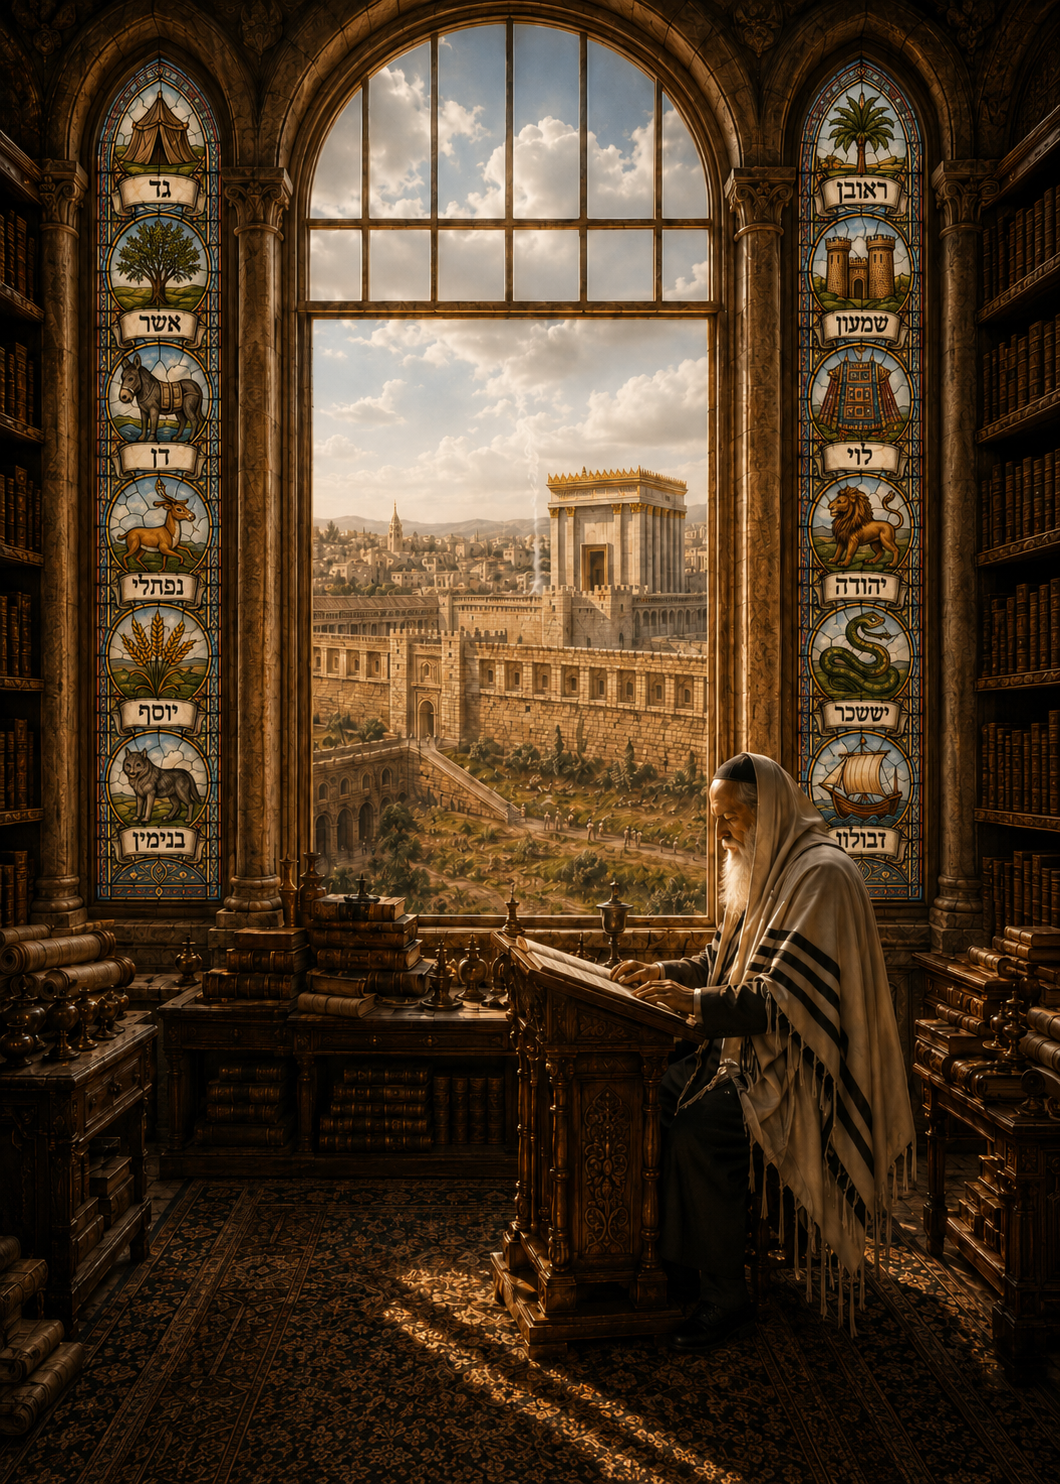
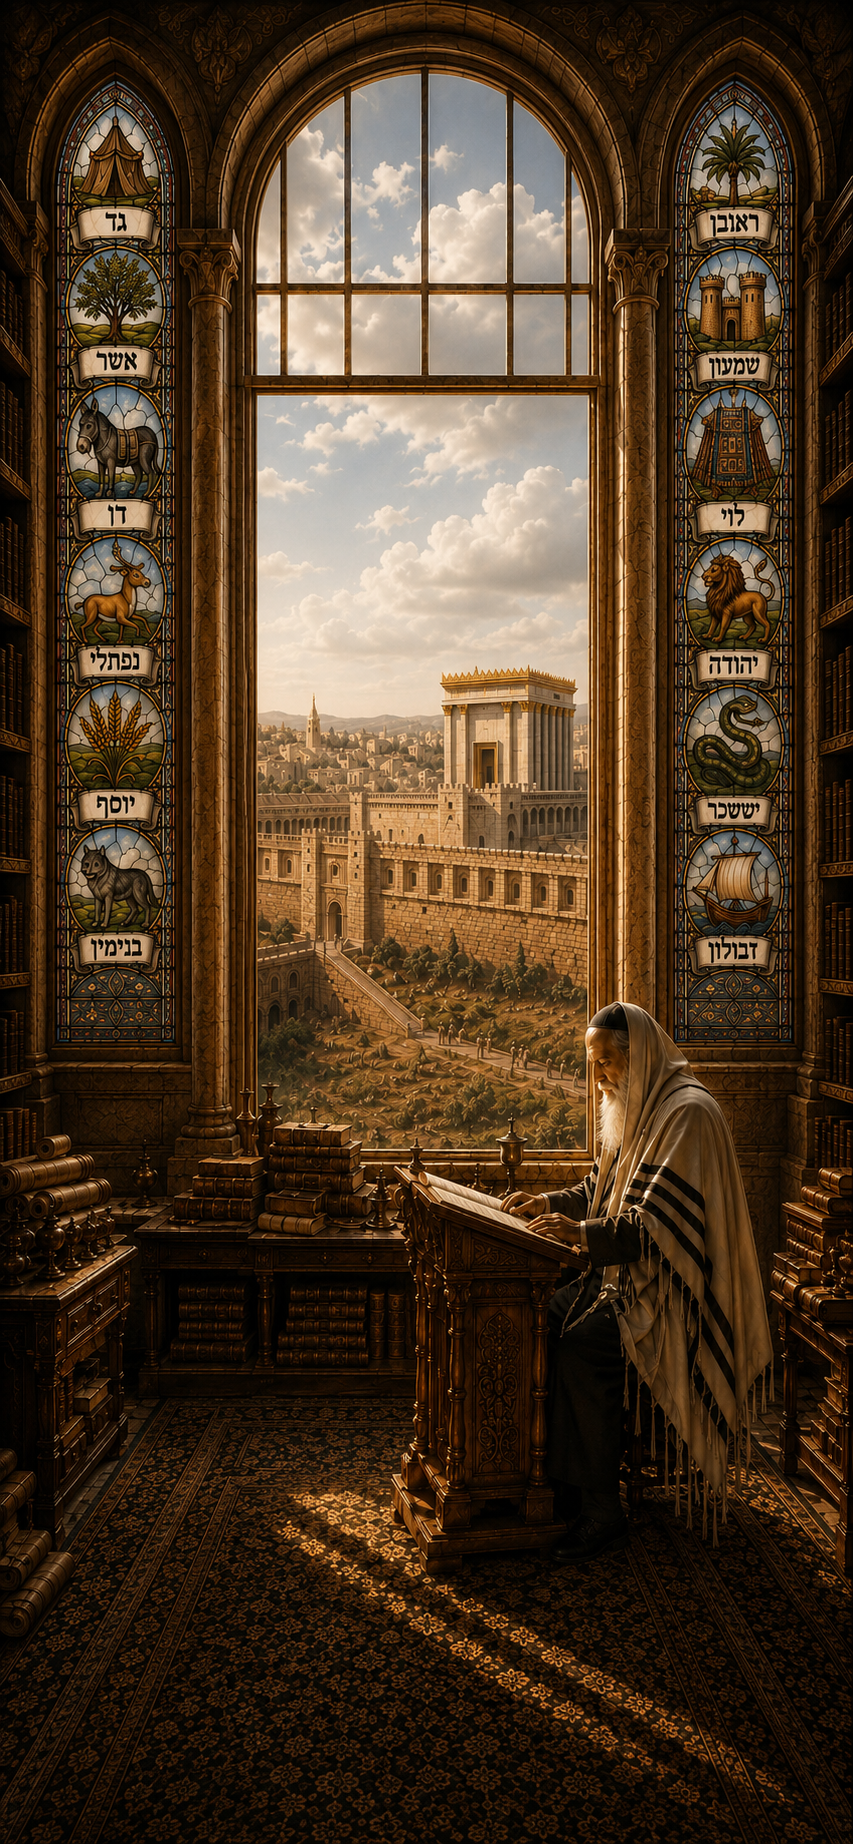
fix: replace portrait background with correctly-sized image (853x1844)
New image matches iPhone aspect ratio (0.463 vs 0.462) — fills screen
perfectly with cover, no side cropping, no dark areas.

Claude-Session: https://claude.ai/code/session_01WGiJnvrRXTL4he7V4s4kJC

diff --git a/calculator.html b/calculator.html
@@ -27,14 +27,10 @@ body.calc-page {
 }
 @media (max-width: 767px) {
   body.calc-page {
-    background-image:
-      linear-gradient(to bottom, transparent 60%, #0a0602 100%),
-      url('./calc-bg-portrait.png') !important;
-    background-size: 100% auto, 100% auto !important;
-    background-position: top center, top center !important;
-    background-repeat: no-repeat, no-repeat !important;
+    background-image: url('./calc-bg-portrait.png') !important;
+    background-size: cover !important;
+    background-position: center center !important;
   }
-  body.calc-page::before { display: none !important; }
 }
 .menu-overlay { display: none; }
 .top-bar {
